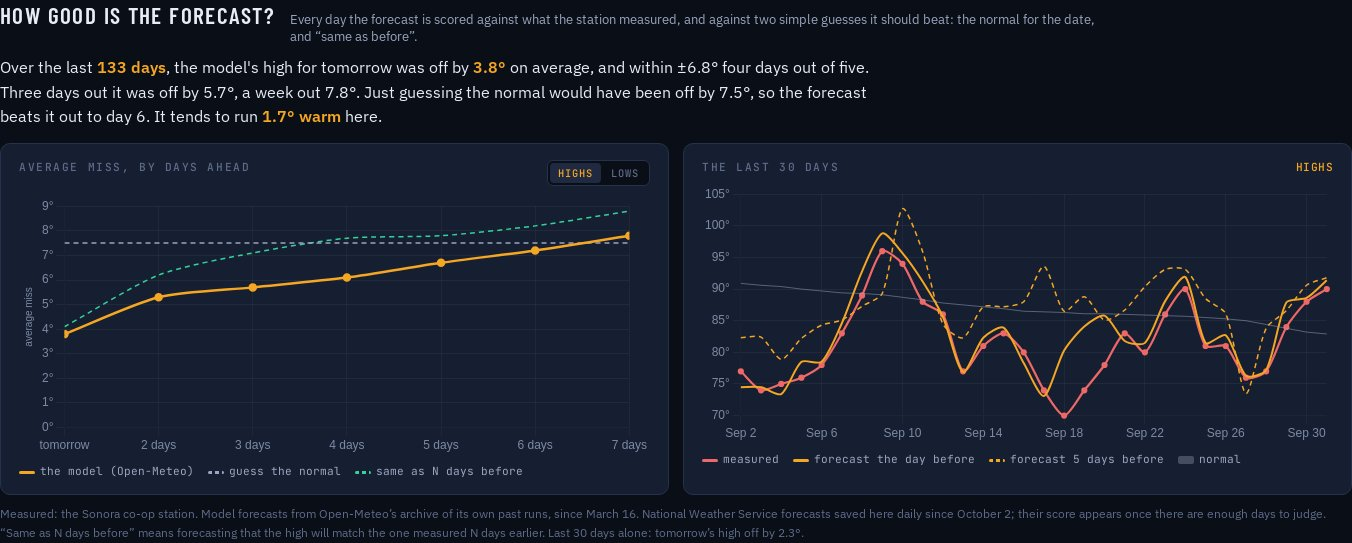
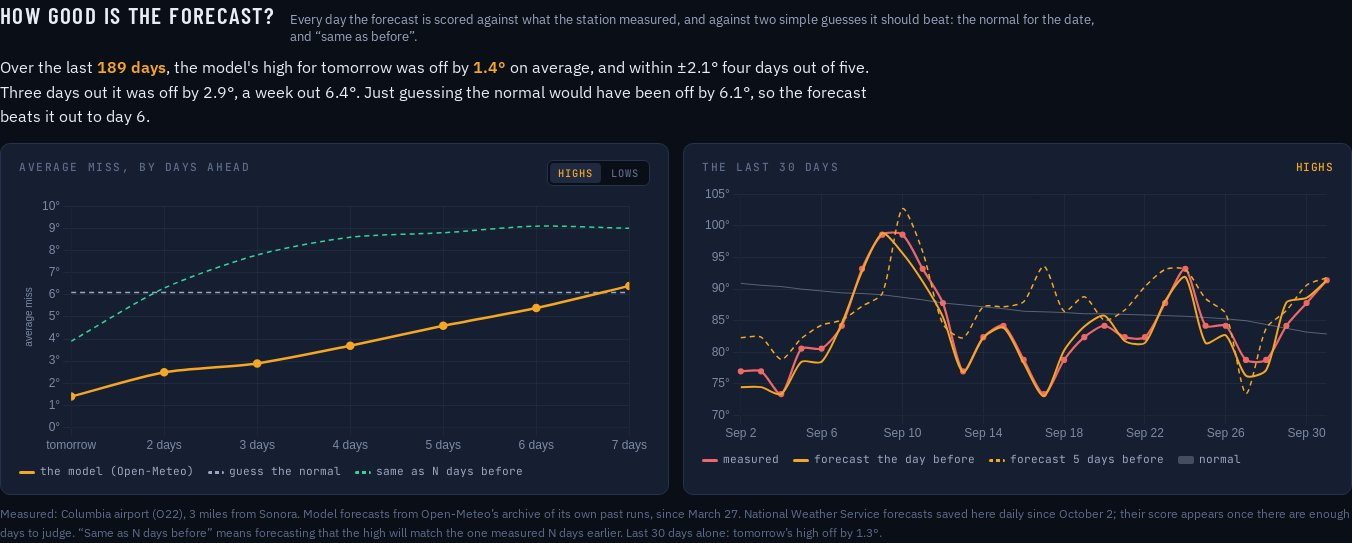
Weather Station, Revisited: correct Sonora's forecast scores (faulty co-op thermometer), add first freeze and radar
Claude-Session: https://claude.ai/code/session_017Wz3D7XhrJfSZNzKN34Nn3

diff --git a/blog/weather-station-revisited-post.html b/blog/weather-station-revisited-post.html
@@ -199,11 +199,13 @@
     <p>A forecast shown without a track record is asking to be taken on faith, so the page now keeps score. Open-Meteo archives what its forecast said one to seven days ahead for every hour, back to March, which meant the scoring could start with 200 days of history instead of from zero. Every morning the hourly job compares those forecasts with the high and low each station actually measured, and with two guesses any forecast ought to beat: &ldquo;it&rsquo;ll be the normal for the date&rdquo; and &ldquo;same as it was N days ago.&rdquo;</p>
 
     <div class="photo-block">
-      <img src="/blog/img/weather-station-revisited/forecast-score.jpg" width="1352" height="543" alt="How good is the forecast, Sonora: the model's high for tomorrow off by 3.8 degrees on average over 133 days, a week out 7.8 degrees; a chart of the average miss rising with days ahead against flat lines for guessing the normal; the last 30 days of measured highs against the forecasts made one and five days before" loading="lazy">
-      <p class="photo-caption">Sonora: tomorrow&rsquo;s high is off by 3.8&deg; on average, and the forecast beats guessing the normal out to day six.</p>
+      <img src="/blog/img/weather-station-revisited/forecast-score.jpg" width="1352" height="543" alt="How good is the forecast, Sonora: the model's high for tomorrow off by 1.4 degrees on average over 189 days, three days out 2.9, a week out 6.4, against 6.1 for guessing the normal; charts of the average miss by days ahead and of the last 30 days of measured highs against the forecasts made one and five days before" loading="lazy">
+      <p class="photo-caption">Sonora, scored against Columbia airport three miles away: tomorrow&rsquo;s high is off by 1.4&deg; on average, and the forecast beats guessing the normal out to day six.</p>
     </div>
 
-    <p>The results are honest in a way the forecast itself isn&rsquo;t. In Death Valley tomorrow&rsquo;s high is off by just 1.5&deg; on average; a desert with clear skies is easy. In Lakewood it&rsquo;s 3.7&deg;, running about 3&deg; cool, and by day seven the forecast is barely better than the normal (6.0&deg; against 6.2&deg;). And Sonora&rsquo;s lows are the outlier: the forecast lows run 13&deg; too warm on average. On calm, clear nights cold air drains off the hills into the valley where the town and its weather station sit, and the model, which sees the terrain only in rough outline, forecasts the hillside instead: 72&deg; forecast and 59&deg; measured on September 24. On other nights it&rsquo;s spot on (51&deg; and 51&deg; on the 28th).</p>
+    <p>The results are honest in a way the forecast itself isn&rsquo;t. In Sonora tomorrow&rsquo;s high is off by just 1.4&deg; on average, and in Death Valley 1.5&deg;: clear, dry air is easy to forecast. In Reno it&rsquo;s 2.7&deg;. In Lakewood it&rsquo;s 3.7&deg;, running about 3&deg; cool, and by day seven the forecast is barely better than guessing the normal (6.0&deg; against 6.2&deg;). The lows tell a different story in the foothills: Sonora&rsquo;s forecast lows run 8&deg; too warm. On calm, clear nights cold air drains off the hills and pools in the low ground, and the model, which sees the terrain only in rough outline, forecasts something closer to the hillside: 72&deg; forecast and 57&deg; measured on September 24, against 51&deg; and 48&deg; on the 28th.</p>
+
+    <p><strong>A correction, and a bad thermometer.</strong> The first version of this section scored Sonora against the town&rsquo;s co-op weather station and said tomorrow&rsquo;s high was off by 3.8&deg; and the lows ran 13&deg; warm. Both were wrong, because the station was. Checking one odd number for the freeze card (below), I found it had logged lows of 33&ndash;37&deg; for seven nights in mid-September while Columbia airport, three miles away, logged 48&ndash;55&deg;, and every other station within 25 miles agreed with Columbia. It had even set a false record low for September 18. The co-op station also misses about a third of its days. So Sonora&rsquo;s forecasts are now scored against Columbia airport, and the record books for all four stations get a neighbor check: any recent day where a station disagrees with every station around it by more than 12&deg; is set aside. At Sonora that removed 6 highs and 40 lows from the last 400 days; at the other three, none.</p>
 
     <p>Each forecast day now carries a &ldquo;usually &plusmn;&rdquo; figure from these scores. The National Weather Service&rsquo;s own forecast isn&rsquo;t archived anywhere I can reach, so the page has started saving it every morning; once there are a few weeks of it, the human forecasters go on the same chart as the model.</p>
 
@@ -248,6 +250,26 @@
     </div>
 
     <p>Lawton turned out to be a good test. Its September was brutal, with highs of 102&ndash;104&deg; for the first week and 108&deg; on the 12th, up against the record line for the date. I checked those numbers against the Iowa archive before believing them; they match to the degree. The first version of this also picked the wrong station: Fort Sill&rsquo;s airfield, which has a long record but a gap across 1991&ndash;2020, so it had no normals and reported Lawton as 87&deg; above normal. Now the page tries up to three stations until it finds one with normals, never shows a departure without one, and flags it when a station has skipped reporting rain (Bend&rsquo;s skipped 153 days in the last water year).</p>
+
+    <h2>When&rsquo;s the first freeze?</h2>
+
+    <p>It&rsquo;s October, so the question everyone with a garden is asking has an answer in the record books. From each station&rsquo;s full daily history the page finds the first night of every fall at or below 32&deg;, and shows the typical date, the range that covers eight winters out of ten, the earliest and latest on record, how many winters have already had one by today, and whether this one has yet. It works for searched places too.</p>
+
+    <div class="photo-block" style="max-width:460px;margin-left:auto;margin-right:auto">
+      <img src="/blog/img/weather-station-revisited/sonora-freeze.jpg" width="444" height="216" alt="First freeze card for Sonora: typically November 13, between October 26 and December 1 in 8 winters out of 10; earliest October 6 2007, latest December 22 1937; none yet this season, coldest so far 42 degrees" loading="lazy">
+      <p class="photo-caption">Sonora: the first freeze usually comes in mid-November. The blue band is eight winters in ten; amber is today.</p>
+    </div>
+
+    <p>The four stations could hardly be more different. Reno&rsquo;s typical first freeze is October 4, and more than 40% of winters there have had one by now (the earliest was August 10, 1962). Lakewood&rsquo;s comes around November 11 and Sonora&rsquo;s November 13. Death Valley&rsquo;s is December 9, and in 6% of winters it never freezes at all. The same card shows the last freeze of spring: Reno&rsquo;s is typically May 19, which is why Reno gardeners wait until late May or June to plant tomatoes.</p>
+
+    <h2>Radar</h2>
+
+    <p>Finally, a radar map: the last hour of the National Weather Service&rsquo;s NEXRAD radars, stitched into one picture every five minutes by the Iowa Environmental Mesonet, looping over a dark map centred on whichever place is selected. It only starts loading when you scroll to it.</p>
+
+    <div class="photo-block">
+      <img src="/blog/img/weather-station-revisited/radar-oklahoma.jpg" width="1352" height="486" alt="Radar map centred on Lawton, Oklahoma: showers over Oklahoma City and Tulsa and storms in north Texas, on a dark base map" loading="lazy">
+      <p class="photo-caption">Searching Lawton this afternoon: showers over Oklahoma City and Tulsa behind the cold front, storms in north Texas.</p>
+    </div>
 
     <p>Everything is still free: the National Weather Service API, ACIS, the Iowa Environmental Mesonet and Open-Meteo, none of which need a key. A physical station in my yard would still cost $385&ndash;$765, and it would only cover one of the four.</p>
 
